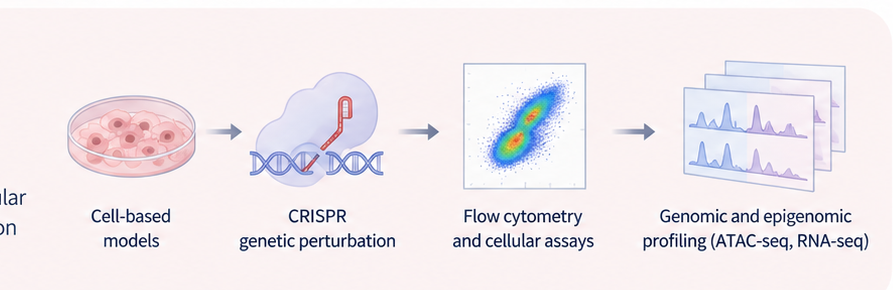
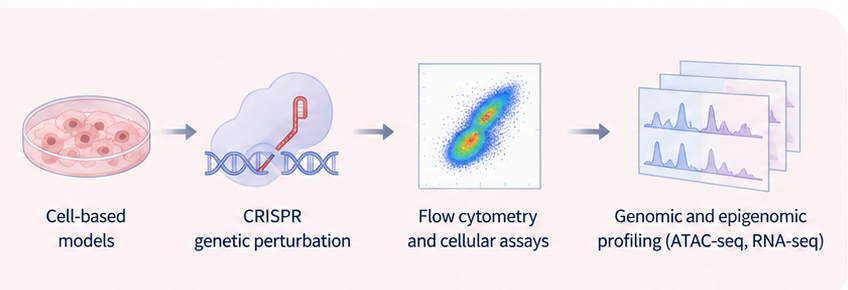
Add files via upload

diff --git a/contact.html b/contact.html
@@ -2,4 +2,4 @@
 <li><a href="index.html">Home</a></li><li><a href="about.html">About</a></li><li><a href="research.html">Research</a></li><li><a href="experience.html">Experience</a></li><li><a href="presentations.html">Presentations</a></li><li><a href="contact.html">Contact</a></li></ul></nav></header>
 <section class="page-hero contact-hero"><div class="page-hero-inner"><div class="eyebrow">Let's Connect</div><h1>Let's Connect</h1><p>I am interested in connecting with researchers and scientists working in cancer biology, molecular biology, and therapeutic development.</p></div></section><main class="content"><div class="contact-box"><ul class="contact-list">
 <li>📧 <strong>Email:</strong> <a href="mailto:Diana.zakharova@temple.edu">Diana.zakharova@temple.edu</a></li>
-<li>📄 <strong>CV:</strong> <a href="#">Add your CV PDF</a></li></ul></div></main><footer>© 2026 Diana Zakharova</footer></body></html>
+<li>🔗 <strong>LinkedIn:</strong> <a href="#">Add your LinkedIn profile</a></li></ul></div></main><footer>© 2026 Diana Zakharova</footer></body></html>
